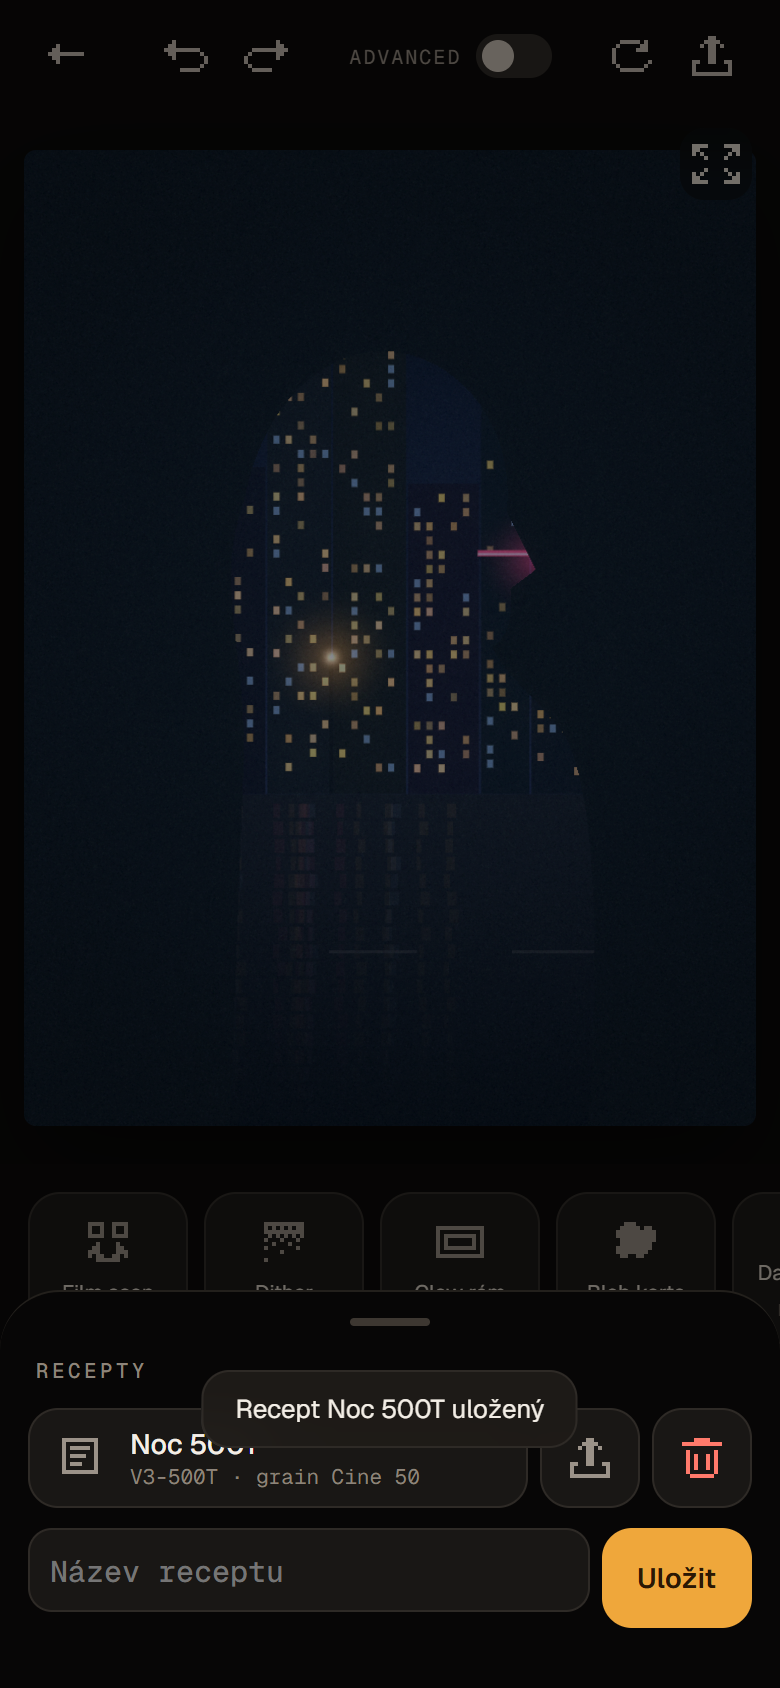
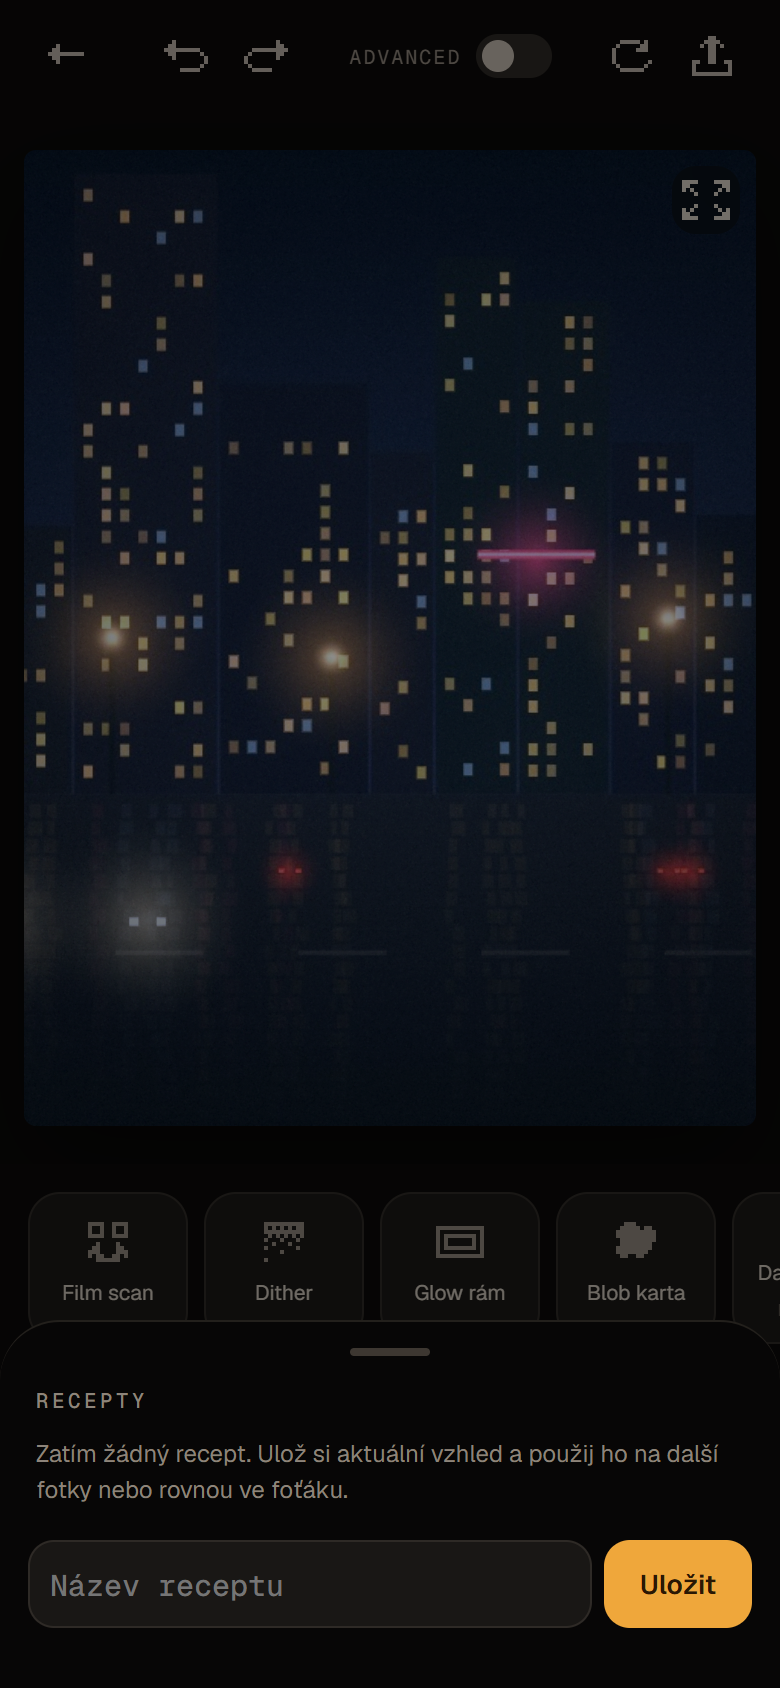
Náhled 0.5.1: ikona tečkové Q, ukládání fotek, srovnaná galerie
- ikona appky (tečkové Q) pro iPhone, Android a favicon, manifest pro instalaci na plochu
- vyfocené, importované a vyvolané fotky se ukládají do IndexedDB i s úpravami
- galerie skládá fotky do dvou sloupců se srovnanými horními hranami
- recepty: pole a tlačítko Uložit stejně vysoké, tlačítko zvětšení v rohu fotky

diff --git a/docs/preview/index.html b/docs/preview/index.html
@@ -4,6 +4,13 @@
 <meta charset="utf-8">
 <meta name="viewport" content="width=device-width, initial-scale=1, maximum-scale=1, user-scalable=no, viewport-fit=cover">
 <meta name="theme-color" content="#0c0b0a">
+<link rel="icon" href="../../icons/favicon-32.png" sizes="32x32">
+<link rel="icon" href="../../icons/icon.svg" type="image/svg+xml">
+<link rel="apple-touch-icon" href="../../icons/apple-touch-icon.png">
+<link rel="manifest" href="../../manifest.webmanifest">
+<meta name="apple-mobile-web-app-capable" content="yes">
+<meta name="apple-mobile-web-app-status-bar-style" content="black-translucent">
+<meta name="apple-mobile-web-app-title" content="Qamera">
 <title>Qamera náhled</title>
 <link rel="preconnect" href="https://fonts.googleapis.com">
 <link rel="preconnect" href="https://fonts.gstatic.com" crossorigin>
@@ -126,7 +133,9 @@ a{color:var(--amber)}
 .rrow .rapply{justify-content:flex-start;padding:0 14px}
 .rrow b{display:block;font-weight:500;font-size:14px}
 .rrow small{display:block;font-family:var(--f-mono);font-size:10.5px;color:var(--mute)}
-.rsave{display:grid;grid-template-columns:1fr auto;gap:6px;margin-top:4px}
+.rsave{display:grid;grid-template-columns:1fr auto;gap:6px;margin-top:4px;align-items:stretch}
+.acts .rsave .go,.rsave input{height:44px;border-radius:13px}
+.acts .rsave .go{padding:0 18px;font-size:13.5px}
 .rsave .go{padding:0 18px}
 #rShare{display:flex;flex-direction:column;align-items:center;gap:8px;text-align:center}
 #rShare small{font-size:11.5px;color:var(--mute);line-height:1.45}
@@ -301,7 +310,7 @@ a{color:var(--amber)}
 .ecanvas.framed{background:#0a0a0d;border-radius:0;box-shadow:none}
 .ecanvas.framed #eGlow,.ecanvas.framed #pcGlow{display:block}
 .ecanvas.framed #edCanvas,.ecanvas.framed #pcCanvas{position:absolute;border-radius:3px;box-shadow:0 0 0 1px rgba(255,255,255,.05)}
-.fsbtn{position:absolute;top:8px;right:14px;width:36px;height:36px;border-radius:12px;background:rgba(10,9,8,.5);backdrop-filter:blur(10px);-webkit-backdrop-filter:blur(10px);color:#d0c8be;z-index:3}
+.fsbtn{position:absolute;top:8px;right:8px;width:34px;height:34px;border-radius:12px;background:rgba(10,9,8,.5);backdrop-filter:blur(10px);-webkit-backdrop-filter:blur(10px);color:#d0c8be;z-index:3}
 .badge{position:absolute;top:12px;left:50%;transform:translateX(-50%);font-family:var(--f-mono);font-size:10.5px;letter-spacing:.2em;padding:5px 10px;border-radius:8px;background:rgba(0,0,0,.6);color:#fff;opacity:0;transition:opacity .15s;pointer-events:none;z-index:3}
 .badge.show{opacity:1}
 .epanel{flex:none;min-height:0;overflow:hidden;overflow:clip;position:relative}
@@ -429,11 +438,12 @@ input[type=range]:hover::-webkit-slider-thumb{background:#fff}
 .roll small{display:block;font-family:var(--f-mono);font-size:9.5px;color:#aaa197;margin-top:2px;padding:0 10px;white-space:nowrap;overflow:hidden;text-overflow:ellipsis}
 .roll b{padding:0 10px;white-space:nowrap;overflow:hidden;text-overflow:ellipsis}
 .fchips{display:flex;gap:6px;overflow-x:auto;padding:0 14px 12px}
-.fchips button{flex:none;height:32px;padding:0 12px;border-radius:10px;background:var(--panel);border:1px solid var(--line);font-family:var(--f-px);font-size:10px;color:var(--mute)}
+.fchips button{flex:none;height:32px;padding:0 12px;border-radius:10px;background:var(--panel);border:1px solid var(--line);font-family:var(--f-mono);font-size:11px;color:var(--mute)}
 .fchips button.on{color:var(--amber);border-color:rgba(255,196,61,.45);background:rgba(255,196,61,.07)}
 .roll.lock small{color:var(--amber)}
-.masonry{columns:2;column-gap:8px;padding:0 14px}
-.gitem{break-inside:avoid;margin:0 0 8px;border-radius:16px;overflow:hidden;position:relative;display:block;width:100%}
+.masonry{display:grid;grid-template-columns:1fr 1fr;gap:8px;padding:0 14px;align-items:start}
+.mcol{display:flex;flex-direction:column;gap:8px;min-width:0}
+.gitem{margin:0;border-radius:16px;overflow:hidden;position:relative;display:block;width:100%}
 .gitem img{display:block;width:100%}
 .gitem span{position:absolute;left:10px;bottom:10px;line-height:1.2;font-family:var(--f-mono);font-size:9.5px;padding:3px 7px;border-radius:7px;background:rgba(0,0,0,.5);backdrop-filter:blur(6px);-webkit-backdrop-filter:blur(6px)}
 .gitem{transition:transform .25s cubic-bezier(.3,1.5,.5,1),opacity .25s}
@@ -666,9 +676,8 @@ input[type=range]:hover::-webkit-slider-thumb{background:#fff}
             <div style="display:flex"><button class="ib" id="resetBtn" data-ic="reset" aria-label="Vrátit úpravy na výchozí film"></button><button class="ib" id="expBtn" data-ic="share" aria-label="Exportovat"></button></div>
           </div>
           <div class="ephoto" id="ePhoto">
-            <div class="frame" id="eFrame"><div class="ecanvas" id="eWrap"><canvas id="eGlow"></canvas><canvas id="edCanvas"></canvas></div></div>
+            <div class="frame" id="eFrame"><div class="ecanvas" id="eWrap"><canvas id="eGlow"></canvas><canvas id="edCanvas"></canvas><button class="ib fsbtn" id="fsBtn" data-ic="expand" aria-label="Celá obrazovka"></button></div></div>
             <div class="croplayer" id="cropLayer" hidden><div class="cropbox" id="cropBox"></div></div>
-            <button class="ib fsbtn" id="fsBtn" data-ic="expand" aria-label="Celá obrazovka"></button>
             <div class="badge" id="beforeBadge">PŘED</div>
           </div>
           <div class="epanel" id="ePanel"></div>
@@ -1822,7 +1831,7 @@ function finishCapture(src0) {
   const fl = $('#flash');
   if (S.flash || +fl.style.opacity > 0) spring(+fl.style.opacity || 1, 0, v => fl.style.opacity = v * .9, { k: 60, c: 14 });
   blink();
-  const ph = addPhoto(src, P, CAM.live ? 'live' : LIVE.facing === 'front' ? 'zapad' : 'mesto', CAM.live ? ['kamera'] : ['noc', 'ulice'], true);
+  const ph = keep(addPhoto(src, P, CAM.live ? 'live' : LIVE.facing === 'front' ? 'zapad' : 'mesto', CAM.live ? ['kamera'] : ['noc', 'ulice'], true, uid()));
   if (S.dxReturn) { useDxOther(ph); return; }
   const vf = $('#vf'), gb = $('#galBtn'), phone = $('#phone'), sc = phone.getBoundingClientRect().width / phone.offsetWidth;
   const a = vf.getBoundingClientRect(), b = gb.getBoundingClientRect(), pr = phone.getBoundingClientRect();
@@ -1853,10 +1862,26 @@ async function setZoom(z) {
    Fotky / galerie
    ===================================================================== */
 let pid = 0;
-function addPhoto(src, P, kind, tags, fresh) {
+function addPhoto(src, P, kind, tags, fresh, id) {
   const out = utilRender(src, P, 300, Math.round(300 / (src.width / src.height)), {});
-  const ph = { id: ++pid, src, P, kind, tags, film: P.film, date: new Date(), thumb: out.toDataURL('image/jpeg', .85), fresh };
+  const ph = { id: id ?? ++pid, src, P, kind, tags, film: P.film, date: new Date(), thumb: out.toDataURL('image/jpeg', .85), fresh };
   S.photos.unshift(ph); return ph;
+}
+/* tvoje fotky (vyfocené, importované, vyvolané) se ukládají v zařízení do IndexedDB: originál + úpravy jako JSON (nedestruktivně) */
+let uidN = 0; const uid = () => Date.now() * 10 + (uidN++ % 10);
+const DBP = { p: null };
+function idb() { return DBP.p || (DBP.p = new Promise((res, rej) => { const r = indexedDB.open('qamera', 1); r.onupgradeneeded = () => r.result.createObjectStore('photos', { keyPath: 'id' }); r.onsuccess = () => res(r.result); r.onerror = () => rej(r.error); })); }
+function keep(ph) { ph.saved = true; dbPut(ph); return ph; }
+async function dbPut(ph) { if (!ph || !ph.saved) return; try { if (!ph.blob) ph.blob = await new Promise(r => ph.src.toBlob(r, 'image/jpeg', .93)); const db = await idb();
+  db.transaction('photos', 'readwrite').objectStore('photos').put({ id: ph.id, kind: ph.kind, tags: ph.tags, date: +ph.date, P: ph.P, blob: ph.blob }); } catch {} }
+async function dbDel(id) { try { const db = await idb(); db.transaction('photos', 'readwrite').objectStore('photos').delete(id); } catch {} }
+async function dbLoad() {
+  try { const db = await idb(), all = await new Promise((res, rej) => { const r = db.transaction('photos').objectStore('photos').getAll(); r.onsuccess = () => res(r.result); r.onerror = () => rej(r.error); });
+    all.sort((a, b) => a.date - b.date);
+    for (const it of all) { const bmp = await createImageBitmap(it.blob), c = mk(bmp.width, bmp.height); c.getContext('2d').drawImage(bmp, 0, 0);
+      const ph = addPhoto(c, Object.assign(DEF(), it.P), it.kind, it.tags, false, it.id); ph.date = new Date(it.date); ph.saved = true; ph.blob = it.blob; }
+    if (all.length) { $('#galThumb').src = S.photos[0].thumb; if (S.screen === 'gallery') renderGallery(); }
+  } catch {}
 }
 function rethumb(ph) { const o = utilRender(srcOf(ph, ph.P), ph.P, 300, Math.round(300 / (ph.src.width / ph.src.height)), {}); ph.thumb = o.toDataURL('image/jpeg', .85); ph.film = ph.P.film; }
 function seedPhotos() {
@@ -1889,7 +1914,9 @@ function renderGallery() {
 function filterGallery() {
   const q = $('#gSearch').value.trim().toLowerCase();
   const list = S.photos.filter(p => !S.gFilm || p.film === S.gFilm).filter(p => !q || p.film.toLowerCase().includes(q) || p.tags.some(t => t.includes(q)) || p.date.toLocaleDateString('cs-CZ').includes(q));
-  $('#masonry').innerHTML = list.map(p => `<button class="gitem ${p.fresh ? 'new' : ''} ${S.sel && S.sel.has(p.id) ? 'sel' : ''}" data-id="${p.id}"><img src="${p.thumb}" alt=""><span>${p.film}</span></button>`).join('');
+  const cols = [[], []], hg = [0, 0], item = p => `<button class="gitem ${p.fresh ? 'new' : ''} ${S.sel && S.sel.has(p.id) ? 'sel' : ''}" data-id="${p.id}"><img src="${p.thumb}" alt="" style="aspect-ratio:${p.src.width}/${p.src.height}"><span>${p.film}</span></button>`;
+  list.forEach(p => { const i = hg[0] <= hg[1] ? 0 : 1; cols[i].push(p); hg[i] += p.src.height / p.src.width + .04; }); // vždy do kratšího sloupce, horní hrany sedí
+  $('#masonry').innerHTML = cols.map(c => `<div class="mcol">${c.map(item).join('')}</div>`).join('');
   list.forEach(p => p.fresh = false);
   $('#gEmpty').hidden = list.length > 0;
   $$('.gitem').forEach(b => { const ph = S.photos.find(p => p.id === +b.dataset.id);
@@ -1920,8 +1947,8 @@ function photoActs(ph, el) {
 }
 function deletePhoto(ph, el) {
   const i = S.photos.indexOf(ph); if (i < 0) return; el && el.classList.add('gone'); buzz(10);
-  setTimeout(() => { S.photos.splice(i, 1); filterGallery(); if (S.photos[0]) $('#galThumb').src = S.photos[0].thumb; }, 230);
-  toast('Fotka smazaná', { label: 'Vrátit', fn: () => { S.photos.splice(i, 0, ph); ph.fresh = true; filterGallery(); $('#galThumb').src = S.photos[0].thumb; } });
+  setTimeout(() => { S.photos.splice(i, 1); filterGallery(); if (S.photos[0]) $('#galThumb').src = S.photos[0].thumb; if (ph.saved) dbDel(ph.id); }, 230);
+  toast('Fotka smazaná', { label: 'Vrátit', fn: () => { S.photos.splice(i, 0, ph); ph.fresh = true; filterGallery(); $('#galThumb').src = S.photos[0].thumb; dbPut(ph); } });
 }
 function galleryAdd() {
   openActs(`<h4>Přidat</h4>${actBtn('imp', 'gallery', 'Importovat fotky z telefonu')}${actBtn('dispo', 'film', 'Jednorázovka')}${actBtn('arch', 'sheet', 'Arch')}`, root => {
@@ -1945,7 +1972,7 @@ async function importFiles(files) {
   for (const f of files) {
     try { const url = URL.createObjectURL(f), img = new Image(); img.src = url; await img.decode();
       const k = Math.min(1, 2048 / Math.max(img.naturalWidth, img.naturalHeight)), c = mk(Math.round(img.naturalWidth * k), Math.round(img.naturalHeight * k)); c.getContext('2d').drawImage(img, 0, 0, c.width, c.height); URL.revokeObjectURL(url);
-      const P = DEF(); P.film = S.film; const ph = addPhoto(c, P, 'import', ['import', 'moje'], true); ph.date = new Date(f.lastModified || Date.now()); n++; } catch {}
+      const P = DEF(); P.film = S.film; const ph = addPhoto(c, P, 'import', ['import', 'moje'], true, uid()); ph.date = new Date(f.lastModified || Date.now()); keep(ph); n++; } catch {}
   }
   if (n) { filterGallery(); $('#galThumb').src = S.photos[0].thumb; toast(n === 1 ? 'Fotka přidaná s filmem ' + S.film : `${n} fotek přidáno s filmem ${S.film}`); }
   else toast('Fotku se nepodařilo načíst');
@@ -1980,7 +2007,7 @@ function develop(roll) {
   el.innerHTML = `<h3>VYVOLÁVÁM</h3><p>${roll.name.toUpperCase()} · ${shots.length} SNÍMKŮ</p><div class="dg">${shots.map(s => `<img src="${utilRender(s.src, s.P, 300, Math.round(300 / (s.src.width / s.src.height)), {}).toDataURL('image/jpeg', .85)}" alt="">`).join('')}</div>`;
   $('#phone').appendChild(el); buzz(10);
   const imgs = $$('img', el); imgs.forEach((im, i) => setTimeout(() => im.classList.add('done'), 500 + i * 420));
-  setTimeout(() => { const added = shots.map(s => { const ph = addPhoto(s.src, s.P, 'dispo', ['jednorázovka', s.P.film], true); ph.date = s.date; return ph; }); ROLLS.splice(ROLLS.indexOf(roll), 1);
+  setTimeout(() => { const added = shots.map(s => { const ph = addPhoto(s.src, s.P, 'dispo', ['jednorázovka', s.P.film], true, uid()); ph.date = s.date; return keep(ph); }); ROLLS.splice(ROLLS.indexOf(roll), 1);
     el.style.transition = 'opacity .4s'; el.style.opacity = 0; setTimeout(() => { el.remove(); renderGallery(); showArch(added, roll.name.toUpperCase(), roll.film); }, 420); }, 1300 + imgs.length * 420 + 1600);
 }
 
@@ -2077,7 +2104,7 @@ function glowFrame(cv, src, cw, ch, rect, scale) {
 }
 function framed(src, P) { if (P.frame !== 'glow') return src; const c = mk(Math.round(src.width / .72), Math.round(src.height / .72)), r = { x: (c.width - src.width) / 2, y: (c.height - src.height) / 2, w: src.width, h: src.height };
   glowFrame(c, src, c.width, c.height, r, 1); const g = c.getContext('2d'); g.drawImage(src, r.x, r.y); return c; }
-function commit() { S.hist.push(JSON.stringify(S.cur._last || S.cur.P)); if (S.hist.length > 60) S.hist.shift(); S.fut = []; S.cur._last = JSON.parse(JSON.stringify(S.P)); S.cur.P = JSON.parse(JSON.stringify(S.P)); rethumb(S.cur); }
+function commit() { S.hist.push(JSON.stringify(S.cur._last || S.cur.P)); if (S.hist.length > 60) S.hist.shift(); S.fut = []; S.cur._last = JSON.parse(JSON.stringify(S.P)); S.cur.P = JSON.parse(JSON.stringify(S.P)); rethumb(S.cur); dbPut(S.cur); }
 function undo() { if (!S.hist.length) return toast('Není co vracet'); S.fut.push(JSON.stringify(S.P)); S.P = JSON.parse(S.hist.pop()); syncCur(); }
 function redo() { if (!S.fut.length) return; S.hist.push(JSON.stringify(S.P)); S.P = JSON.parse(S.fut.pop()); syncCur(); }
 function syncCur() { S.cur.P = JSON.parse(JSON.stringify(S.P)); S.cur._last = JSON.parse(JSON.stringify(S.P)); rethumb(S.cur); setTab(S.tab, true); layoutEditor(); renderEd(true); if (S.view === 'pc') buildPcRight(); }
@@ -2691,7 +2718,7 @@ function boot2(h) {
   if (camE.dead) document.body.insertAdjacentHTML('beforeend', '<p style="position:fixed;inset:auto 0 20px;text-align:center;color:#efa73b">Tenhle prohlížeč neumí WebGL2, náhled filmu nepoběží.</p>');
   store.get('scans', []).forEach(addFilm);
   if (!FILM[S.film]) S.film = 'P400';
-  initLive(); seedPhotos(); buildCarousel(); buildShutter(); setFilm(S.film);
+  initLive(); seedPhotos(); dbLoad(); buildCarousel(); buildShutter(); setFilm(S.film);
   const iso = isoApi = dial($('#isoDial'), ISO_STOPS, S.isoIdx, 124, i => { S.isoIdx = i; updLcd(); });
   const tim = timApi = dial($('#timeDial'), TIME_STOPS, S.timeIdx, 124, i => { S.timeIdx = i; updLcd(); }, 1);
   const ev = evStrip(); evApi = ev; zoomApi = zoomStrip(); updLcd();

diff --git a/index.html b/index.html
@@ -5,6 +5,9 @@
 <meta name="viewport" content="width=device-width, initial-scale=1, viewport-fit=cover">
 <meta name="theme-color" content="#0c0b0a">
 <title>Qamera</title>
+<link rel="icon" href="icons/favicon-32.png" sizes="32x32">
+<link rel="apple-touch-icon" href="icons/apple-touch-icon.png">
+<link rel="manifest" href="manifest.webmanifest">
 <meta http-equiv="refresh" content="0; url=docs/preview/">
 <style>html,body{margin:0;height:100%;background:#0c0b0a;color:#8d847a;font:14px system-ui,sans-serif;display:grid;place-items:center}a{color:#ffc43d}</style>
 </head>
